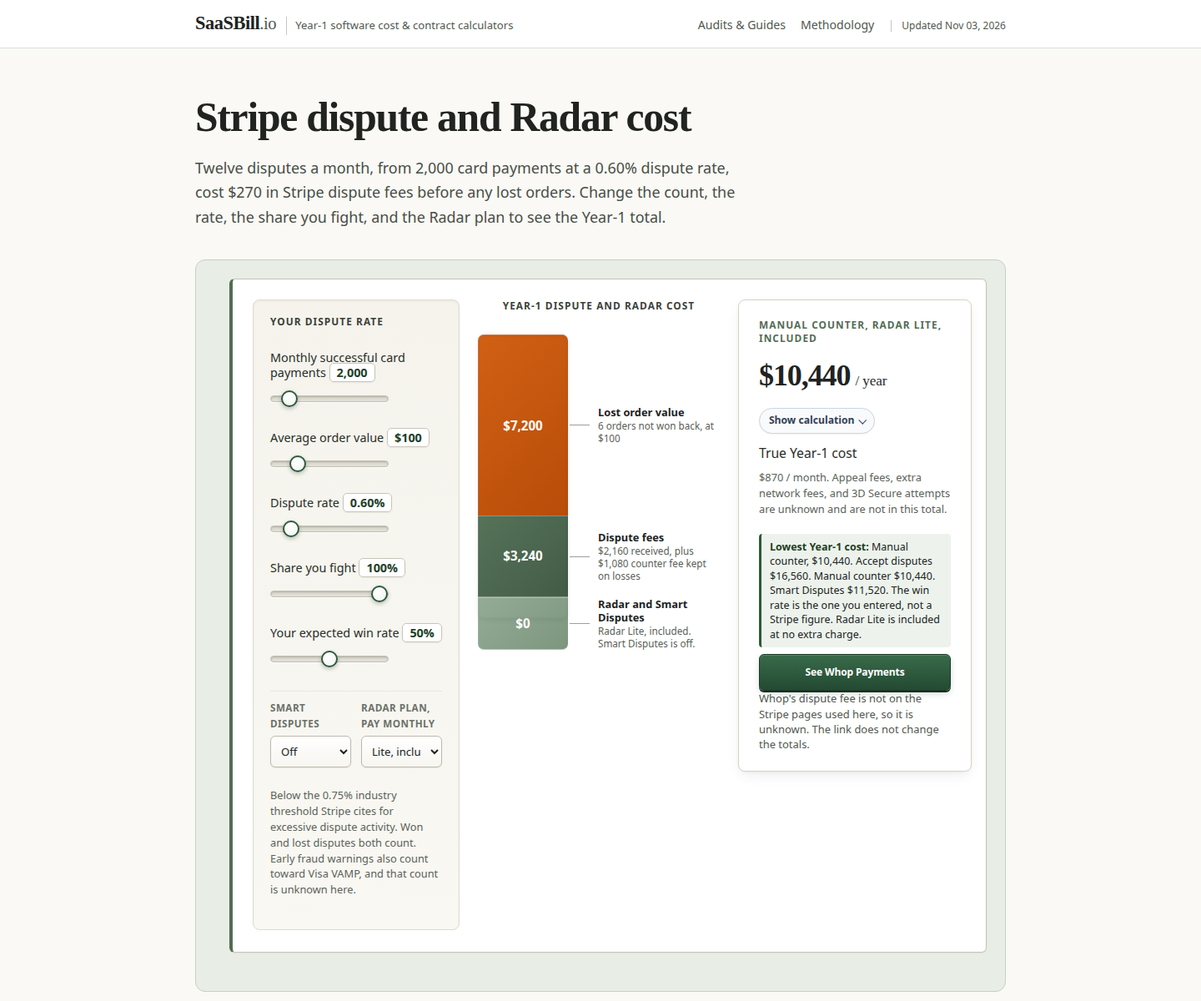
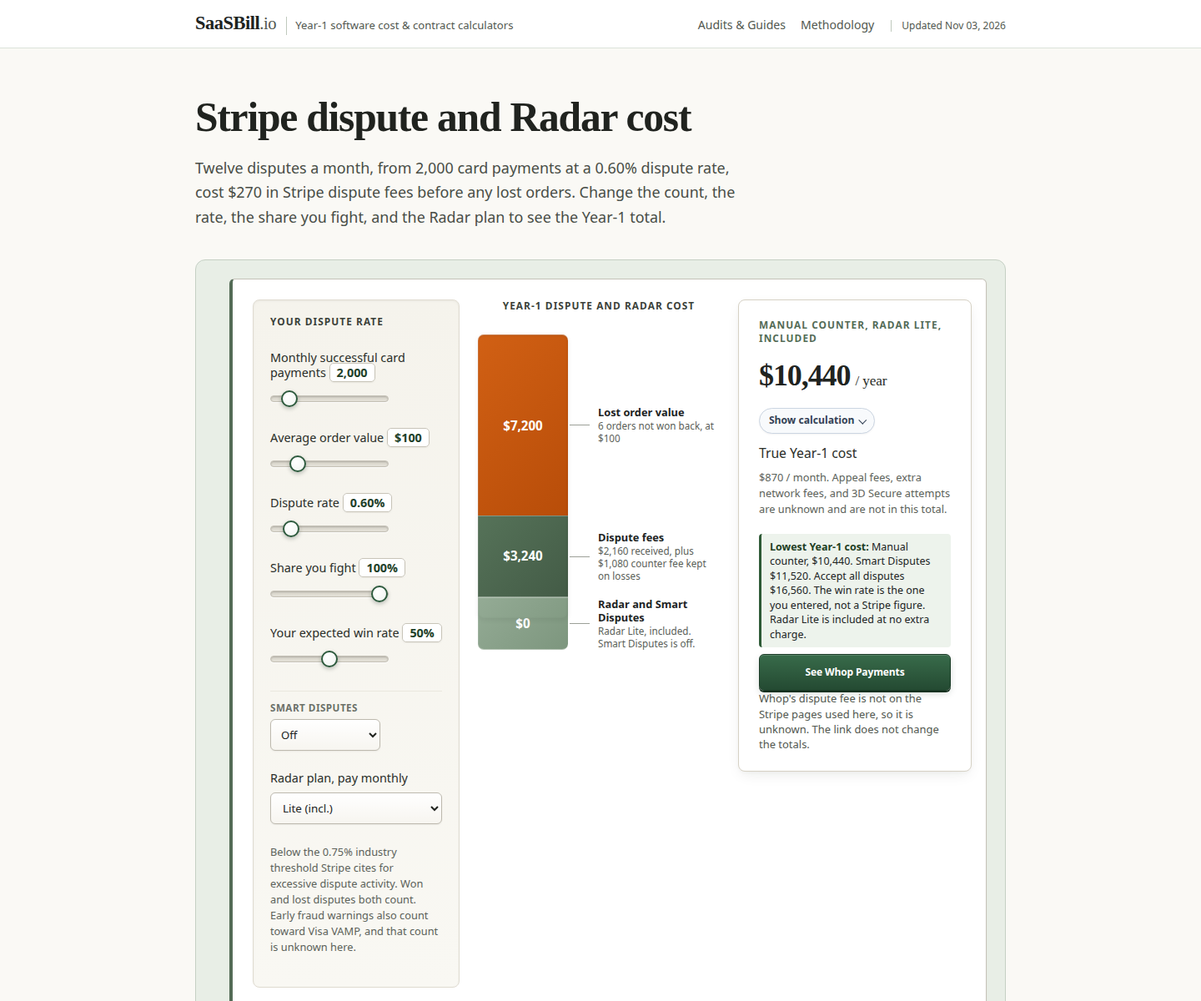
Name the lowest Year-1 cost once and show the full Radar label.
The result box no longer repeats the manual-counter total, and the Radar plan menu uses short labels on a full-width select.

Changed region(s): [[0.1875, 0.6783, 0.8438, 1.0], [0.625, 0.555, 0.7812, 0.6475]]

diff --git a/pricing/stripe-radar-and-dispute-fee-calculator-2026/index.html b/pricing/stripe-radar-and-dispute-fee-calculator-2026/index.html
@@ -13,14 +13,14 @@
   <meta property="og:title" content="Stripe dispute and Radar cost (2026) – saasbill.io" />
   <meta property="og:description" content="Monthly and Year-1 Stripe dispute fees, lost order value, Smart Disputes, and Radar starting prices at the dispute rate you enter. Checked 2 Nov 2026." />
   <meta property="og:url" content="https://saasbill.io/pricing/stripe-radar-and-dispute-fee-calculator-2026/" />
-  <meta property="og:updated_time" content="2026-11-03T17:42:52+00:00" />
+  <meta property="og:updated_time" content="2026-11-03T17:45:30+00:00" />
   <meta property="article:published_time" content="2026-11-02T00:00:00+01:00" />
-  <meta property="article:modified_time" content="2026-11-03T17:42:52+00:00" />
+  <meta property="article:modified_time" content="2026-11-03T17:45:30+00:00" />
   <meta name="twitter:card" content="summary_large_image" />
   <meta name="twitter:title" content="Stripe dispute and Radar cost (2026) – saasbill.io" />
   <meta name="twitter:description" content="Monthly and Year-1 Stripe dispute fees, lost order value, Smart Disputes, and Radar starting prices at the dispute rate you enter. Checked 2 Nov 2026." />
-  <meta name="last-modified" content="2026-11-03T17:42:52+00:00" />
-  <meta name="dcterms.modified" content="2026-11-03T17:42:52+00:00" />
+  <meta name="last-modified" content="2026-11-03T17:45:30+00:00" />
+  <meta name="dcterms.modified" content="2026-11-03T17:45:30+00:00" />
   <meta name="dcterms.issued" content="2026-11-02" />
   <link rel="canonical" href="https://saasbill.io/pricing/stripe-radar-and-dispute-fee-calculator-2026/" />
   <link rel="stylesheet" href="../../assets/styles.css?v=20261030c" />
@@ -110,7 +110,7 @@
     };
 
   </script>
-  <script type="application/ld+json">{"@context": "https://schema.org", "@graph": [{"@type": "TechArticle", "@id": "https://saasbill.io/pricing/stripe-radar-and-dispute-fee-calculator-2026/#article", "headline": "Stripe dispute and Radar cost (2026) \u2013 saasbill.io", "description": "Monthly and Year-1 Stripe dispute fees, lost order value, Smart Disputes, and Radar starting prices at the dispute rate you enter. Checked 2 Nov 2026.", "datePublished": "2026-11-02", "dateModified": "2026-11-03T17:42:52+00:00", "author": {"@type": "Organization", "name": "SaaSBill Editorial", "url": "https://saasbill.io/"}, "publisher": {"@type": "Organization", "name": "SaaSBill", "url": "https://saasbill.io/"}, "mainEntityOfPage": {"@type": "WebPage", "@id": "https://saasbill.io/pricing/stripe-radar-and-dispute-fee-calculator-2026/"}}, {"@type": "WebPage", "@id": "https://saasbill.io/pricing/stripe-radar-and-dispute-fee-calculator-2026/", "url": "https://saasbill.io/pricing/stripe-radar-and-dispute-fee-calculator-2026/", "name": "Stripe dispute and Radar cost (2026) \u2013 saasbill.io", "description": "Monthly and Year-1 Stripe dispute fees, lost order value, Smart Disputes, and Radar starting prices at the dispute rate you enter. Checked 2 Nov 2026.", "inLanguage": "en-US", "datePublished": "2026-11-02", "dateModified": "2026-11-03T17:42:52+00:00", "lastReviewed": "2026-11-03", "reviewedBy": {"@type": "Organization", "name": "SaaSBill Editorial"}}, {"@type": "BreadcrumbList", "itemListElement": [{"@type": "ListItem", "position": 1, "name": "SaaSBill", "item": "https://saasbill.io/"}, {"@type": "ListItem", "position": 2, "name": "Stripe dispute and Radar cost (2026) \u2013 saasbill.io", "item": "https://saasbill.io/pricing/stripe-radar-and-dispute-fee-calculator-2026/"}]}, {"@type": "FAQPage", "@id": "https://saasbill.io/pricing/stripe-radar-and-dispute-fee-calculator-2026/#faq", "datePublished": "2026-11-02", "dateModified": "2026-11-03T17:42:52+00:00", "mainEntity": [{"@type": "Question", "name": "What does Stripe charge when a dispute arrives?", "dateCreated": "2026-11-02", "dateModified": "2026-11-03T17:42:52+00:00", "acceptedAnswer": {"@type": "Answer", "text": "On the US pricing page checked 2 Nov 2026, the dispute received fee is $15.00 per dispute. Stripe says network fees also apply in rare cases. This calculator adds the $15. It does not add a network fee, because that amount is not published as a single figure.", "dateCreated": "2026-11-02", "dateModified": "2026-11-03T17:42:52+00:00"}}, {"@type": "Question", "name": "Is the counter fee refunded if you win?", "dateCreated": "2026-11-02", "dateModified": "2026-11-03T17:42:52+00:00", "acceptedAnswer": {"@type": "Answer", "text": "Yes, for a manual response. Stripe's pricing page says the $15.00 dispute countered fee is refunded if you win and is not refunded if you lose. An appeal is a separate $15.00 fee, and Stripe says that one is not refunded even if you win. This page does not ask for an appeal count, so appeal fees stay unknown.", "dateCreated": "2026-11-02", "dateModified": "2026-11-03T17:42:52+00:00"}}, {"@type": "Question", "name": "What is the 0.75% line?", "dateCreated": "2026-11-02", "dateModified": "2026-11-03T17:42:52+00:00", "acceptedAnswer": {"@type": "Answer", "text": "Stripe's dispute measurement guide says the industry standard treats dispute activity above 0.75% as excessive, and that card network monitoring programs use dispute activity by dispute date. Won and lost disputes both count. Cardholders can dispute for up to 120 days. Visa also counts early fraud warnings toward VAMP. This calculator can see the dispute rate you type. It cannot see early fraud warnings, so that part is unknown.", "dateCreated": "2026-11-02", "dateModified": "2026-11-03T17:42:52+00:00"}}, {"@type": "Question", "name": "What does Radar cost?", "dateCreated": "2026-11-02", "dateModified": "2026-11-03T17:42:52+00:00", "acceptedAnswer": {"@type": "Answer", "text": "Radar Lite is included on standard pricing. Stripe's Radar pricing page lists business plans that start at $10 a month for Standard, $14 for Plus, and $20 for Pro. Pay-as-you-go starts at $0.05 per screened transaction. Connect plans start at $20, $44, and $70 a month. The page does not publish the exact volume tiers, so the business-plan lines in this calculator are starting prices.", "dateCreated": "2026-11-02", "dateModified": "2026-11-03T17:42:52+00:00"}}]}]}</script>
+  <script type="application/ld+json">{"@context": "https://schema.org", "@graph": [{"@type": "TechArticle", "@id": "https://saasbill.io/pricing/stripe-radar-and-dispute-fee-calculator-2026/#article", "headline": "Stripe dispute and Radar cost (2026) \u2013 saasbill.io", "description": "Monthly and Year-1 Stripe dispute fees, lost order value, Smart Disputes, and Radar starting prices at the dispute rate you enter. Checked 2 Nov 2026.", "datePublished": "2026-11-02", "dateModified": "2026-11-03T17:45:30+00:00", "author": {"@type": "Organization", "name": "SaaSBill Editorial", "url": "https://saasbill.io/"}, "publisher": {"@type": "Organization", "name": "SaaSBill", "url": "https://saasbill.io/"}, "mainEntityOfPage": {"@type": "WebPage", "@id": "https://saasbill.io/pricing/stripe-radar-and-dispute-fee-calculator-2026/"}}, {"@type": "WebPage", "@id": "https://saasbill.io/pricing/stripe-radar-and-dispute-fee-calculator-2026/", "url": "https://saasbill.io/pricing/stripe-radar-and-dispute-fee-calculator-2026/", "name": "Stripe dispute and Radar cost (2026) \u2013 saasbill.io", "description": "Monthly and Year-1 Stripe dispute fees, lost order value, Smart Disputes, and Radar starting prices at the dispute rate you enter. Checked 2 Nov 2026.", "inLanguage": "en-US", "datePublished": "2026-11-02", "dateModified": "2026-11-03T17:45:30+00:00", "lastReviewed": "2026-11-03", "reviewedBy": {"@type": "Organization", "name": "SaaSBill Editorial"}}, {"@type": "BreadcrumbList", "itemListElement": [{"@type": "ListItem", "position": 1, "name": "SaaSBill", "item": "https://saasbill.io/"}, {"@type": "ListItem", "position": 2, "name": "Stripe dispute and Radar cost (2026) \u2013 saasbill.io", "item": "https://saasbill.io/pricing/stripe-radar-and-dispute-fee-calculator-2026/"}]}, {"@type": "FAQPage", "@id": "https://saasbill.io/pricing/stripe-radar-and-dispute-fee-calculator-2026/#faq", "datePublished": "2026-11-02", "dateModified": "2026-11-03T17:45:30+00:00", "mainEntity": [{"@type": "Question", "name": "What does Stripe charge when a dispute arrives?", "dateCreated": "2026-11-02", "dateModified": "2026-11-03T17:45:30+00:00", "acceptedAnswer": {"@type": "Answer", "text": "On the US pricing page checked 2 Nov 2026, the dispute received fee is $15.00 per dispute. Stripe says network fees also apply in rare cases. This calculator adds the $15. It does not add a network fee, because that amount is not published as a single figure.", "dateCreated": "2026-11-02", "dateModified": "2026-11-03T17:45:30+00:00"}}, {"@type": "Question", "name": "Is the counter fee refunded if you win?", "dateCreated": "2026-11-02", "dateModified": "2026-11-03T17:45:30+00:00", "acceptedAnswer": {"@type": "Answer", "text": "Yes, for a manual response. Stripe's pricing page says the $15.00 dispute countered fee is refunded if you win and is not refunded if you lose. An appeal is a separate $15.00 fee, and Stripe says that one is not refunded even if you win. This page does not ask for an appeal count, so appeal fees stay unknown.", "dateCreated": "2026-11-02", "dateModified": "2026-11-03T17:45:30+00:00"}}, {"@type": "Question", "name": "What is the 0.75% line?", "dateCreated": "2026-11-02", "dateModified": "2026-11-03T17:45:30+00:00", "acceptedAnswer": {"@type": "Answer", "text": "Stripe's dispute measurement guide says the industry standard treats dispute activity above 0.75% as excessive, and that card network monitoring programs use dispute activity by dispute date. Won and lost disputes both count. Cardholders can dispute for up to 120 days. Visa also counts early fraud warnings toward VAMP. This calculator can see the dispute rate you type. It cannot see early fraud warnings, so that part is unknown.", "dateCreated": "2026-11-02", "dateModified": "2026-11-03T17:45:30+00:00"}}, {"@type": "Question", "name": "What does Radar cost?", "dateCreated": "2026-11-02", "dateModified": "2026-11-03T17:45:30+00:00", "acceptedAnswer": {"@type": "Answer", "text": "Radar Lite is included on standard pricing. Stripe's Radar pricing page lists business plans that start at $10 a month for Standard, $14 for Plus, and $20 for Pro. Pay-as-you-go starts at $0.05 per screened transaction. Connect plans start at $20, $44, and $70 a month. The page does not publish the exact volume tiers, so the business-plan lines in this calculator are starting prices.", "dateCreated": "2026-11-02", "dateModified": "2026-11-03T17:45:30+00:00"}}]}]}</script>
 </head>
 <body>
   <header class="site-header">
@@ -129,7 +129,7 @@
   <main class="container">
     <article itemscope itemtype="https://schema.org/TechArticle">
       <meta itemprop="datePublished" content="2026-11-02" />
-      <meta itemprop="dateModified" content="2026-11-03T17:42:52+00:00" />
+      <meta itemprop="dateModified" content="2026-11-03T17:45:30+00:00" />
       
 <section class="hero editorial-hero editorial-hero-wrap">
   <h1>Stripe dispute and Radar cost</h1>
@@ -181,15 +181,15 @@
               <option value="yes">On</option>
             </select>
           </div>
-          <div class="wb-quiet-field">
-            <label for="rd-radar">Radar plan, pay monthly</label>
-            <select id="rd-radar" data-track="calculator-control" data-control="radar-plan">
-              <option value="lite" selected>Lite, included</option>
-              <option value="standard">Standard, $10</option>
-              <option value="plus">Plus, $14</option>
-              <option value="pro">Pro, $20</option>
-            </select>
-          </div>
+        </div>
+        <div class="wb-control-item">
+          <label class="wb-control-label" for="rd-radar">Radar plan, pay monthly</label>
+          <select id="rd-radar" class="wb-tool-select" data-track="calculator-control" data-control="radar-plan">
+            <option value="lite" selected>Lite (incl.)</option>
+            <option value="standard">Standard $10</option>
+            <option value="plus">Plus $14</option>
+            <option value="pro">Pro $20</option>
+          </select>
         </div>
         <p id="rd-status" class="wb-budget-subnote">Below the 0.75% industry threshold Stripe cites for excessive dispute activity. Won and lost disputes both count. Early fraud warnings also count toward Visa VAMP, and that count is unknown here.</p>
       </div>
@@ -222,7 +222,7 @@
       </details>
       <p class="wb-budget-quote" id="rd-quote">True Year-1 cost</p>
       <p class="wb-budget-subnote" id="rd-sub">$870 / month, before appeal fees, network fees, and 3D Secure.</p>
-      <div class="wb-best-option" id="rd-best"><strong>Lowest Year-1 cost:</strong> Manual counter, $10,440. Smart Disputes is $11,520. Accepting every dispute is $16,560.</div>
+      <div class="wb-best-option" id="rd-best"><strong>Lowest Year-1 cost:</strong> Manual counter, $10,440. Smart Disputes $11,520. Accept all disputes $16,560. The win rate is the one you entered, not a Stripe figure. Radar Lite is included at no extra charge.</div>
       <div class="cta-stack">
         <a id="rd-primary" class="btn-cta wb-primary-cta" href="https://whop.com/sell?a=baggyprairieae" target="_blank" rel="sponsored nofollow noopener" data-track="vendor-cta" data-vendor="whop" data-cta-location="workbench">See Whop Payments</a>
       </div>
@@ -500,6 +500,24 @@ function rdRadarName(key) {
   return "Radar Lite, included";
 }
 
+function rdLowestSentence(c) {
+  var order = ["manual", "smart", "accept"];
+  var amounts = { manual: c.manual.totalYr, smart: c.smart.totalYr, accept: c.accept.totalYr };
+  var names = { manual: "Manual counter", smart: "Smart Disputes", accept: "Accept all disputes" };
+  var lows = [];
+  var rest = [];
+  order.forEach(function (key) {
+    if (c.lowestKeys.indexOf(key) !== -1) lows.push(names[key]);
+    else rest.push(names[key] + " " + rdMoney(amounts[key]));
+  });
+  var radarNote = c.radarKey === "lite"
+    ? "Radar Lite is included at no extra charge."
+    : rdRadarName(c.radarKey) + ". Stripe does not publish the volume tier, so this Radar line is a starting price.";
+  var line = "Lowest Year-1 cost: " + lows.join(" and ") + ", " + rdMoney(c.lowestYr) + ".";
+  if (rest.length) line += " " + rest.join(". ") + ".";
+  return line + " The win rate is the one you entered, not a Stripe figure. " + radarNote;
+}
+
 function renderStripeRadar() {
   var input = rdRead();
   var c = calcStripeRadar(input);
@@ -527,9 +545,9 @@ function renderStripeRadar() {
   document.getElementById("rd-product").textContent = rdPathName(c.selectedKey) + ", " + rdRadarName(c.radarKey);
   document.getElementById("rd-big").textContent = rdMoney(s.totalYr);
   document.getElementById("rd-sub").textContent = rdMoney(s.totalMo) + " / month. Appeal fees, extra network fees, and 3D Secure attempts are unknown and are not in this total.";
-  var lowNames = c.lowestKeys.map(rdPathName).join(" and ");
-  var radarNote = c.radarKey === "lite" ? " Radar Lite is included at no extra charge." : " " + rdRadarName(c.radarKey) + ". Stripe does not publish the volume tier, so this Radar line is a starting price.";
-  document.getElementById("rd-best").innerHTML = "<strong>Lowest Year-1 cost:</strong> " + lowNames + ", " + rdMoney(c.lowestYr) + ". Accept disputes " + rdMoney(c.accept.totalYr) + ". Manual counter " + rdMoney(c.manual.totalYr) + ". Smart Disputes " + rdMoney(c.smart.totalYr) + ". The win rate is the one you entered, not a Stripe figure." + radarNote;
+  var lowestLine = rdLowestSentence(c);
+  var lowestLabel = "Lowest Year-1 cost:";
+  document.getElementById("rd-best").innerHTML = "<strong>" + lowestLabel + "</strong>" + lowestLine.slice(lowestLabel.length);
   document.getElementById("rd-sum-fees").textContent = rdMoney(s.disputeFeesYr) + " / yr";
   document.getElementById("rd-sum-fees-mo").textContent = rdMoney(s.disputeFeesMo) + " / month";
   document.getElementById("rd-sum-lost").textContent = rdMoney(s.lostYr) + " / yr";

diff --git a/public/pricing/stripe-radar-and-dispute-fee-calculator-2026/index.html b/public/pricing/stripe-radar-and-dispute-fee-calculator-2026/index.html
@@ -13,14 +13,14 @@
   <meta property="og:title" content="Stripe dispute and Radar cost (2026) – saasbill.io" />
   <meta property="og:description" content="Monthly and Year-1 Stripe dispute fees, lost order value, Smart Disputes, and Radar starting prices at the dispute rate you enter. Checked 2 Nov 2026." />
   <meta property="og:url" content="https://saasbill.io/pricing/stripe-radar-and-dispute-fee-calculator-2026/" />
-  <meta property="og:updated_time" content="2026-11-03T17:42:52+00:00" />
+  <meta property="og:updated_time" content="2026-11-03T17:45:30+00:00" />
   <meta property="article:published_time" content="2026-11-02T00:00:00+01:00" />
-  <meta property="article:modified_time" content="2026-11-03T17:42:52+00:00" />
+  <meta property="article:modified_time" content="2026-11-03T17:45:30+00:00" />
   <meta name="twitter:card" content="summary_large_image" />
   <meta name="twitter:title" content="Stripe dispute and Radar cost (2026) – saasbill.io" />
   <meta name="twitter:description" content="Monthly and Year-1 Stripe dispute fees, lost order value, Smart Disputes, and Radar starting prices at the dispute rate you enter. Checked 2 Nov 2026." />
-  <meta name="last-modified" content="2026-11-03T17:42:52+00:00" />
-  <meta name="dcterms.modified" content="2026-11-03T17:42:52+00:00" />
+  <meta name="last-modified" content="2026-11-03T17:45:30+00:00" />
+  <meta name="dcterms.modified" content="2026-11-03T17:45:30+00:00" />
   <meta name="dcterms.issued" content="2026-11-02" />
   <link rel="canonical" href="https://saasbill.io/pricing/stripe-radar-and-dispute-fee-calculator-2026/" />
   <link rel="stylesheet" href="../../assets/styles.css?v=20261030c" />
@@ -110,7 +110,7 @@
     };
 
   </script>
-  <script type="application/ld+json">{"@context": "https://schema.org", "@graph": [{"@type": "TechArticle", "@id": "https://saasbill.io/pricing/stripe-radar-and-dispute-fee-calculator-2026/#article", "headline": "Stripe dispute and Radar cost (2026) \u2013 saasbill.io", "description": "Monthly and Year-1 Stripe dispute fees, lost order value, Smart Disputes, and Radar starting prices at the dispute rate you enter. Checked 2 Nov 2026.", "datePublished": "2026-11-02", "dateModified": "2026-11-03T17:42:52+00:00", "author": {"@type": "Organization", "name": "SaaSBill Editorial", "url": "https://saasbill.io/"}, "publisher": {"@type": "Organization", "name": "SaaSBill", "url": "https://saasbill.io/"}, "mainEntityOfPage": {"@type": "WebPage", "@id": "https://saasbill.io/pricing/stripe-radar-and-dispute-fee-calculator-2026/"}}, {"@type": "WebPage", "@id": "https://saasbill.io/pricing/stripe-radar-and-dispute-fee-calculator-2026/", "url": "https://saasbill.io/pricing/stripe-radar-and-dispute-fee-calculator-2026/", "name": "Stripe dispute and Radar cost (2026) \u2013 saasbill.io", "description": "Monthly and Year-1 Stripe dispute fees, lost order value, Smart Disputes, and Radar starting prices at the dispute rate you enter. Checked 2 Nov 2026.", "inLanguage": "en-US", "datePublished": "2026-11-02", "dateModified": "2026-11-03T17:42:52+00:00", "lastReviewed": "2026-11-03", "reviewedBy": {"@type": "Organization", "name": "SaaSBill Editorial"}}, {"@type": "BreadcrumbList", "itemListElement": [{"@type": "ListItem", "position": 1, "name": "SaaSBill", "item": "https://saasbill.io/"}, {"@type": "ListItem", "position": 2, "name": "Stripe dispute and Radar cost (2026) \u2013 saasbill.io", "item": "https://saasbill.io/pricing/stripe-radar-and-dispute-fee-calculator-2026/"}]}, {"@type": "FAQPage", "@id": "https://saasbill.io/pricing/stripe-radar-and-dispute-fee-calculator-2026/#faq", "datePublished": "2026-11-02", "dateModified": "2026-11-03T17:42:52+00:00", "mainEntity": [{"@type": "Question", "name": "What does Stripe charge when a dispute arrives?", "dateCreated": "2026-11-02", "dateModified": "2026-11-03T17:42:52+00:00", "acceptedAnswer": {"@type": "Answer", "text": "On the US pricing page checked 2 Nov 2026, the dispute received fee is $15.00 per dispute. Stripe says network fees also apply in rare cases. This calculator adds the $15. It does not add a network fee, because that amount is not published as a single figure.", "dateCreated": "2026-11-02", "dateModified": "2026-11-03T17:42:52+00:00"}}, {"@type": "Question", "name": "Is the counter fee refunded if you win?", "dateCreated": "2026-11-02", "dateModified": "2026-11-03T17:42:52+00:00", "acceptedAnswer": {"@type": "Answer", "text": "Yes, for a manual response. Stripe's pricing page says the $15.00 dispute countered fee is refunded if you win and is not refunded if you lose. An appeal is a separate $15.00 fee, and Stripe says that one is not refunded even if you win. This page does not ask for an appeal count, so appeal fees stay unknown.", "dateCreated": "2026-11-02", "dateModified": "2026-11-03T17:42:52+00:00"}}, {"@type": "Question", "name": "What is the 0.75% line?", "dateCreated": "2026-11-02", "dateModified": "2026-11-03T17:42:52+00:00", "acceptedAnswer": {"@type": "Answer", "text": "Stripe's dispute measurement guide says the industry standard treats dispute activity above 0.75% as excessive, and that card network monitoring programs use dispute activity by dispute date. Won and lost disputes both count. Cardholders can dispute for up to 120 days. Visa also counts early fraud warnings toward VAMP. This calculator can see the dispute rate you type. It cannot see early fraud warnings, so that part is unknown.", "dateCreated": "2026-11-02", "dateModified": "2026-11-03T17:42:52+00:00"}}, {"@type": "Question", "name": "What does Radar cost?", "dateCreated": "2026-11-02", "dateModified": "2026-11-03T17:42:52+00:00", "acceptedAnswer": {"@type": "Answer", "text": "Radar Lite is included on standard pricing. Stripe's Radar pricing page lists business plans that start at $10 a month for Standard, $14 for Plus, and $20 for Pro. Pay-as-you-go starts at $0.05 per screened transaction. Connect plans start at $20, $44, and $70 a month. The page does not publish the exact volume tiers, so the business-plan lines in this calculator are starting prices.", "dateCreated": "2026-11-02", "dateModified": "2026-11-03T17:42:52+00:00"}}]}]}</script>
+  <script type="application/ld+json">{"@context": "https://schema.org", "@graph": [{"@type": "TechArticle", "@id": "https://saasbill.io/pricing/stripe-radar-and-dispute-fee-calculator-2026/#article", "headline": "Stripe dispute and Radar cost (2026) \u2013 saasbill.io", "description": "Monthly and Year-1 Stripe dispute fees, lost order value, Smart Disputes, and Radar starting prices at the dispute rate you enter. Checked 2 Nov 2026.", "datePublished": "2026-11-02", "dateModified": "2026-11-03T17:45:30+00:00", "author": {"@type": "Organization", "name": "SaaSBill Editorial", "url": "https://saasbill.io/"}, "publisher": {"@type": "Organization", "name": "SaaSBill", "url": "https://saasbill.io/"}, "mainEntityOfPage": {"@type": "WebPage", "@id": "https://saasbill.io/pricing/stripe-radar-and-dispute-fee-calculator-2026/"}}, {"@type": "WebPage", "@id": "https://saasbill.io/pricing/stripe-radar-and-dispute-fee-calculator-2026/", "url": "https://saasbill.io/pricing/stripe-radar-and-dispute-fee-calculator-2026/", "name": "Stripe dispute and Radar cost (2026) \u2013 saasbill.io", "description": "Monthly and Year-1 Stripe dispute fees, lost order value, Smart Disputes, and Radar starting prices at the dispute rate you enter. Checked 2 Nov 2026.", "inLanguage": "en-US", "datePublished": "2026-11-02", "dateModified": "2026-11-03T17:45:30+00:00", "lastReviewed": "2026-11-03", "reviewedBy": {"@type": "Organization", "name": "SaaSBill Editorial"}}, {"@type": "BreadcrumbList", "itemListElement": [{"@type": "ListItem", "position": 1, "name": "SaaSBill", "item": "https://saasbill.io/"}, {"@type": "ListItem", "position": 2, "name": "Stripe dispute and Radar cost (2026) \u2013 saasbill.io", "item": "https://saasbill.io/pricing/stripe-radar-and-dispute-fee-calculator-2026/"}]}, {"@type": "FAQPage", "@id": "https://saasbill.io/pricing/stripe-radar-and-dispute-fee-calculator-2026/#faq", "datePublished": "2026-11-02", "dateModified": "2026-11-03T17:45:30+00:00", "mainEntity": [{"@type": "Question", "name": "What does Stripe charge when a dispute arrives?", "dateCreated": "2026-11-02", "dateModified": "2026-11-03T17:45:30+00:00", "acceptedAnswer": {"@type": "Answer", "text": "On the US pricing page checked 2 Nov 2026, the dispute received fee is $15.00 per dispute. Stripe says network fees also apply in rare cases. This calculator adds the $15. It does not add a network fee, because that amount is not published as a single figure.", "dateCreated": "2026-11-02", "dateModified": "2026-11-03T17:45:30+00:00"}}, {"@type": "Question", "name": "Is the counter fee refunded if you win?", "dateCreated": "2026-11-02", "dateModified": "2026-11-03T17:45:30+00:00", "acceptedAnswer": {"@type": "Answer", "text": "Yes, for a manual response. Stripe's pricing page says the $15.00 dispute countered fee is refunded if you win and is not refunded if you lose. An appeal is a separate $15.00 fee, and Stripe says that one is not refunded even if you win. This page does not ask for an appeal count, so appeal fees stay unknown.", "dateCreated": "2026-11-02", "dateModified": "2026-11-03T17:45:30+00:00"}}, {"@type": "Question", "name": "What is the 0.75% line?", "dateCreated": "2026-11-02", "dateModified": "2026-11-03T17:45:30+00:00", "acceptedAnswer": {"@type": "Answer", "text": "Stripe's dispute measurement guide says the industry standard treats dispute activity above 0.75% as excessive, and that card network monitoring programs use dispute activity by dispute date. Won and lost disputes both count. Cardholders can dispute for up to 120 days. Visa also counts early fraud warnings toward VAMP. This calculator can see the dispute rate you type. It cannot see early fraud warnings, so that part is unknown.", "dateCreated": "2026-11-02", "dateModified": "2026-11-03T17:45:30+00:00"}}, {"@type": "Question", "name": "What does Radar cost?", "dateCreated": "2026-11-02", "dateModified": "2026-11-03T17:45:30+00:00", "acceptedAnswer": {"@type": "Answer", "text": "Radar Lite is included on standard pricing. Stripe's Radar pricing page lists business plans that start at $10 a month for Standard, $14 for Plus, and $20 for Pro. Pay-as-you-go starts at $0.05 per screened transaction. Connect plans start at $20, $44, and $70 a month. The page does not publish the exact volume tiers, so the business-plan lines in this calculator are starting prices.", "dateCreated": "2026-11-02", "dateModified": "2026-11-03T17:45:30+00:00"}}]}]}</script>
 </head>
 <body>
   <header class="site-header">
@@ -129,7 +129,7 @@
   <main class="container">
     <article itemscope itemtype="https://schema.org/TechArticle">
       <meta itemprop="datePublished" content="2026-11-02" />
-      <meta itemprop="dateModified" content="2026-11-03T17:42:52+00:00" />
+      <meta itemprop="dateModified" content="2026-11-03T17:45:30+00:00" />
       
 <section class="hero editorial-hero editorial-hero-wrap">
   <h1>Stripe dispute and Radar cost</h1>
@@ -181,15 +181,15 @@
               <option value="yes">On</option>
             </select>
           </div>
-          <div class="wb-quiet-field">
-            <label for="rd-radar">Radar plan, pay monthly</label>
-            <select id="rd-radar" data-track="calculator-control" data-control="radar-plan">
-              <option value="lite" selected>Lite, included</option>
-              <option value="standard">Standard, $10</option>
-              <option value="plus">Plus, $14</option>
-              <option value="pro">Pro, $20</option>
-            </select>
-          </div>
+        </div>
+        <div class="wb-control-item">
+          <label class="wb-control-label" for="rd-radar">Radar plan, pay monthly</label>
+          <select id="rd-radar" class="wb-tool-select" data-track="calculator-control" data-control="radar-plan">
+            <option value="lite" selected>Lite (incl.)</option>
+            <option value="standard">Standard $10</option>
+            <option value="plus">Plus $14</option>
+            <option value="pro">Pro $20</option>
+          </select>
         </div>
         <p id="rd-status" class="wb-budget-subnote">Below the 0.75% industry threshold Stripe cites for excessive dispute activity. Won and lost disputes both count. Early fraud warnings also count toward Visa VAMP, and that count is unknown here.</p>
       </div>
@@ -222,7 +222,7 @@
       </details>
       <p class="wb-budget-quote" id="rd-quote">True Year-1 cost</p>
       <p class="wb-budget-subnote" id="rd-sub">$870 / month, before appeal fees, network fees, and 3D Secure.</p>
-      <div class="wb-best-option" id="rd-best"><strong>Lowest Year-1 cost:</strong> Manual counter, $10,440. Smart Disputes is $11,520. Accepting every dispute is $16,560.</div>
+      <div class="wb-best-option" id="rd-best"><strong>Lowest Year-1 cost:</strong> Manual counter, $10,440. Smart Disputes $11,520. Accept all disputes $16,560. The win rate is the one you entered, not a Stripe figure. Radar Lite is included at no extra charge.</div>
       <div class="cta-stack">
         <a id="rd-primary" class="btn-cta wb-primary-cta" href="https://whop.com/sell?a=baggyprairieae" target="_blank" rel="sponsored nofollow noopener" data-track="vendor-cta" data-vendor="whop" data-cta-location="workbench">See Whop Payments</a>
       </div>
@@ -500,6 +500,24 @@ function rdRadarName(key) {
   return "Radar Lite, included";
 }
 
+function rdLowestSentence(c) {
+  var order = ["manual", "smart", "accept"];
+  var amounts = { manual: c.manual.totalYr, smart: c.smart.totalYr, accept: c.accept.totalYr };
+  var names = { manual: "Manual counter", smart: "Smart Disputes", accept: "Accept all disputes" };
+  var lows = [];
+  var rest = [];
+  order.forEach(function (key) {
+    if (c.lowestKeys.indexOf(key) !== -1) lows.push(names[key]);
+    else rest.push(names[key] + " " + rdMoney(amounts[key]));
+  });
+  var radarNote = c.radarKey === "lite"
+    ? "Radar Lite is included at no extra charge."
+    : rdRadarName(c.radarKey) + ". Stripe does not publish the volume tier, so this Radar line is a starting price.";
+  var line = "Lowest Year-1 cost: " + lows.join(" and ") + ", " + rdMoney(c.lowestYr) + ".";
+  if (rest.length) line += " " + rest.join(". ") + ".";
+  return line + " The win rate is the one you entered, not a Stripe figure. " + radarNote;
+}
+
 function renderStripeRadar() {
   var input = rdRead();
   var c = calcStripeRadar(input);
@@ -527,9 +545,9 @@ function renderStripeRadar() {
   document.getElementById("rd-product").textContent = rdPathName(c.selectedKey) + ", " + rdRadarName(c.radarKey);
   document.getElementById("rd-big").textContent = rdMoney(s.totalYr);
   document.getElementById("rd-sub").textContent = rdMoney(s.totalMo) + " / month. Appeal fees, extra network fees, and 3D Secure attempts are unknown and are not in this total.";
-  var lowNames = c.lowestKeys.map(rdPathName).join(" and ");
-  var radarNote = c.radarKey === "lite" ? " Radar Lite is included at no extra charge." : " " + rdRadarName(c.radarKey) + ". Stripe does not publish the volume tier, so this Radar line is a starting price.";
-  document.getElementById("rd-best").innerHTML = "<strong>Lowest Year-1 cost:</strong> " + lowNames + ", " + rdMoney(c.lowestYr) + ". Accept disputes " + rdMoney(c.accept.totalYr) + ". Manual counter " + rdMoney(c.manual.totalYr) + ". Smart Disputes " + rdMoney(c.smart.totalYr) + ". The win rate is the one you entered, not a Stripe figure." + radarNote;
+  var lowestLine = rdLowestSentence(c);
+  var lowestLabel = "Lowest Year-1 cost:";
+  document.getElementById("rd-best").innerHTML = "<strong>" + lowestLabel + "</strong>" + lowestLine.slice(lowestLabel.length);
   document.getElementById("rd-sum-fees").textContent = rdMoney(s.disputeFeesYr) + " / yr";
   document.getElementById("rd-sum-fees-mo").textContent = rdMoney(s.disputeFeesMo) + " / month";
   document.getElementById("rd-sum-lost").textContent = rdMoney(s.lostYr) + " / yr";

diff --git a/tests/test_calculator_scenarios.js b/tests/test_calculator_scenarios.js
@@ -559,6 +559,12 @@ function stripeRadar() {
   check(normal.manual.lostMo === 600 && normal.manual.totalMo === 870 && normal.manual.totalYr === 10440, "Default manual Year-1 total should be $10,440");
   check(normal.smart.totalYr === 11520 && normal.accept.totalYr === 16560, "Smart Disputes $11,520 and accept $16,560 at the default");
   check(normal.lowestKeys.length === 1 && normal.lowestKeys[0] === "manual" && normal.threshold === "below", "Manual counter is the lowest cost and 0.60% is below 0.75%");
+  const sentenceFn = extractBalanced(html, "function rdLowestSentence");
+  check(!!sentenceFn, "missing rdLowestSentence");
+  vm.runInContext(sentenceFn + "\nfunction rdMoney(n){return '$'+Math.round(n).toLocaleString('en-US');}\nfunction rdRadarName(){return 'Radar Lite, included';}\nthis.line = rdLowestSentence;", box);
+  const line = box.line(normal);
+  check(line === "Lowest Year-1 cost: Manual counter, $10,440. Smart Disputes $11,520. Accept all disputes $16,560. The win rate is the one you entered, not a Stripe figure. Radar Lite is included at no extra charge.", "default lowest line should name Manual counter once, got " + line);
+  check(line.indexOf("Manual counter") === line.lastIndexOf("Manual counter"), "Manual counter should appear once");
   const at = box.fn({ payments: 2000, aov: 100, rate: 0.75, counter: 0, win: 0, smart: false, radar: "lite" });
   check(at.threshold === "at" && at.disputes === 15, "0.75% should sit on the industry threshold");
   const high = box.fn({ payments: 2000, aov: 80, rate: 2, counter: 100, win: 20, smart: true, radar: "pro" });

diff --git a/scripts/build_stripe_radar.py b/scripts/build_stripe_radar.py
@@ -92,15 +92,15 @@ BODY = r"""
               <option value="yes">On</option>
             </select>
           </div>
-          <div class="wb-quiet-field">
-            <label for="rd-radar">Radar plan, pay monthly</label>
-            <select id="rd-radar" data-track="calculator-control" data-control="radar-plan">
-              <option value="lite" selected>Lite, included</option>
-              <option value="standard">Standard, $10</option>
-              <option value="plus">Plus, $14</option>
-              <option value="pro">Pro, $20</option>
-            </select>
-          </div>
+        </div>
+        <div class="wb-control-item">
+          <label class="wb-control-label" for="rd-radar">Radar plan, pay monthly</label>
+          <select id="rd-radar" class="wb-tool-select" data-track="calculator-control" data-control="radar-plan">
+            <option value="lite" selected>Lite (incl.)</option>
+            <option value="standard">Standard $10</option>
+            <option value="plus">Plus $14</option>
+            <option value="pro">Pro $20</option>
+          </select>
         </div>
         <p id="rd-status" class="wb-budget-subnote">Below the 0.75% industry threshold Stripe cites for excessive dispute activity. Won and lost disputes both count. Early fraud warnings also count toward Visa VAMP, and that count is unknown here.</p>
       </div>
@@ -133,7 +133,7 @@ BODY = r"""
       </details>
       <p class="wb-budget-quote" id="rd-quote">True Year-1 cost</p>
       <p class="wb-budget-subnote" id="rd-sub">$870 / month, before appeal fees, network fees, and 3D Secure.</p>
-      <div class="wb-best-option" id="rd-best"><strong>Lowest Year-1 cost:</strong> Manual counter, $10,440. Smart Disputes is $11,520. Accepting every dispute is $16,560.</div>
+      <div class="wb-best-option" id="rd-best"><strong>Lowest Year-1 cost:</strong> Manual counter, $10,440. Smart Disputes $11,520. Accept all disputes $16,560. The win rate is the one you entered, not a Stripe figure. Radar Lite is included at no extra charge.</div>
       <div class="cta-stack">
         <a id="rd-primary" class="btn-cta wb-primary-cta" href="__WHOP_URL__" target="_blank" rel="sponsored nofollow noopener" data-track="vendor-cta" data-vendor="whop" data-cta-location="workbench">See Whop Payments</a>
       </div>
@@ -411,6 +411,24 @@ function rdRadarName(key) {
   return "Radar Lite, included";
 }
 
+function rdLowestSentence(c) {
+  var order = ["manual", "smart", "accept"];
+  var amounts = { manual: c.manual.totalYr, smart: c.smart.totalYr, accept: c.accept.totalYr };
+  var names = { manual: "Manual counter", smart: "Smart Disputes", accept: "Accept all disputes" };
+  var lows = [];
+  var rest = [];
+  order.forEach(function (key) {
+    if (c.lowestKeys.indexOf(key) !== -1) lows.push(names[key]);
+    else rest.push(names[key] + " " + rdMoney(amounts[key]));
+  });
+  var radarNote = c.radarKey === "lite"
+    ? "Radar Lite is included at no extra charge."
+    : rdRadarName(c.radarKey) + ". Stripe does not publish the volume tier, so this Radar line is a starting price.";
+  var line = "Lowest Year-1 cost: " + lows.join(" and ") + ", " + rdMoney(c.lowestYr) + ".";
+  if (rest.length) line += " " + rest.join(". ") + ".";
+  return line + " The win rate is the one you entered, not a Stripe figure. " + radarNote;
+}
+
 function renderStripeRadar() {
   var input = rdRead();
   var c = calcStripeRadar(input);
@@ -438,9 +456,9 @@ function renderStripeRadar() {
   document.getElementById("rd-product").textContent = rdPathName(c.selectedKey) + ", " + rdRadarName(c.radarKey);
   document.getElementById("rd-big").textContent = rdMoney(s.totalYr);
   document.getElementById("rd-sub").textContent = rdMoney(s.totalMo) + " / month. Appeal fees, extra network fees, and 3D Secure attempts are unknown and are not in this total.";
-  var lowNames = c.lowestKeys.map(rdPathName).join(" and ");
-  var radarNote = c.radarKey === "lite" ? " Radar Lite is included at no extra charge." : " " + rdRadarName(c.radarKey) + ". Stripe does not publish the volume tier, so this Radar line is a starting price.";
-  document.getElementById("rd-best").innerHTML = "<strong>Lowest Year-1 cost:</strong> " + lowNames + ", " + rdMoney(c.lowestYr) + ". Accept disputes " + rdMoney(c.accept.totalYr) + ". Manual counter " + rdMoney(c.manual.totalYr) + ". Smart Disputes " + rdMoney(c.smart.totalYr) + ". The win rate is the one you entered, not a Stripe figure." + radarNote;
+  var lowestLine = rdLowestSentence(c);
+  var lowestLabel = "Lowest Year-1 cost:";
+  document.getElementById("rd-best").innerHTML = "<strong>" + lowestLabel + "</strong>" + lowestLine.slice(lowestLabel.length);
   document.getElementById("rd-sum-fees").textContent = rdMoney(s.disputeFeesYr) + " / yr";
   document.getElementById("rd-sum-fees-mo").textContent = rdMoney(s.disputeFeesMo) + " / month";
   document.getElementById("rd-sum-lost").textContent = rdMoney(s.lostYr) + " / yr";

diff --git a/tests/test_stripe_radar.py b/tests/test_stripe_radar.py
@@ -28,7 +28,12 @@ class TestStripeRadarCalculator(unittest.TestCase):
         self.assertTrue(title.endswith(" – saasbill.io"), title)
         self.assertEqual(title, re.search(r'property="og:title" content="(.*?)"', html).group(1))
         self.assertIn("<h1>Stripe dispute and Radar cost</h1>", html)
-        self.assertIn("Lowest Year-1 cost:", html)
+        self.assertIn("Lowest Year-1 cost:</strong> Manual counter, $10,440. Smart Disputes $11,520. Accept all disputes $16,560.", html)
+        self.assertIn(">Lite (incl.)</option>", html)
+        self.assertIn(">Standard $10</option>", html)
+        self.assertIn(">Plus $14</option>", html)
+        self.assertIn(">Pro $20</option>", html)
+        self.assertIn('id="rd-radar" class="wb-tool-select"', html)
         self.assertNotIn("Best option", html)
         self.assertNotIn("Winner", html)
         self.assertNotIn("answer first", html.lower())
